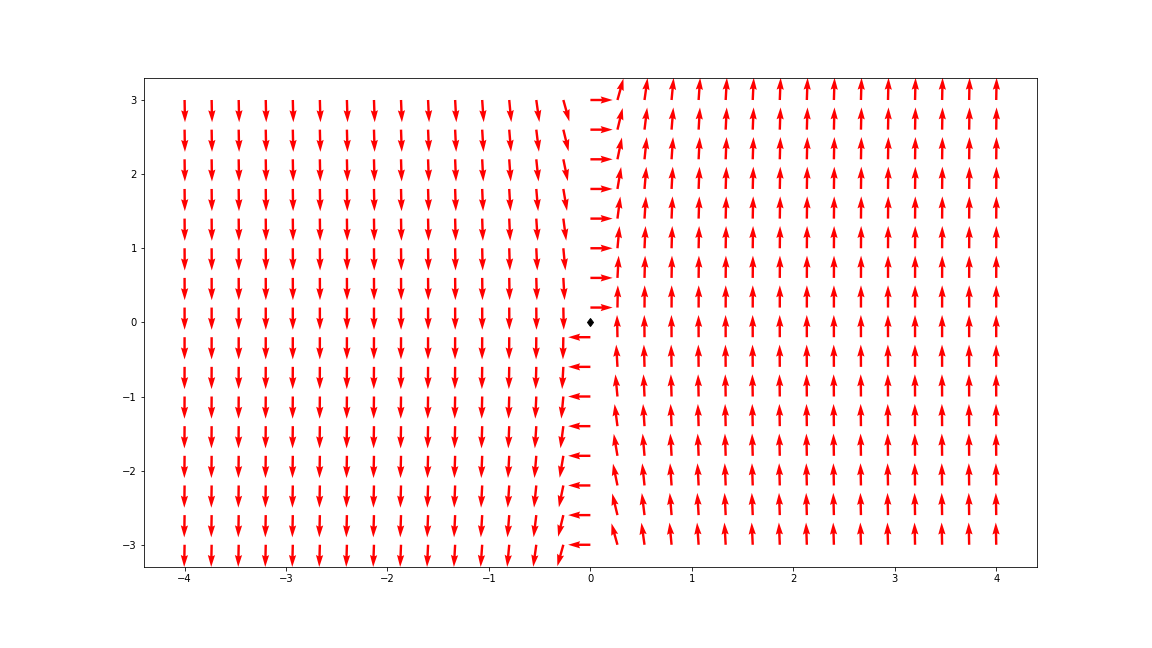
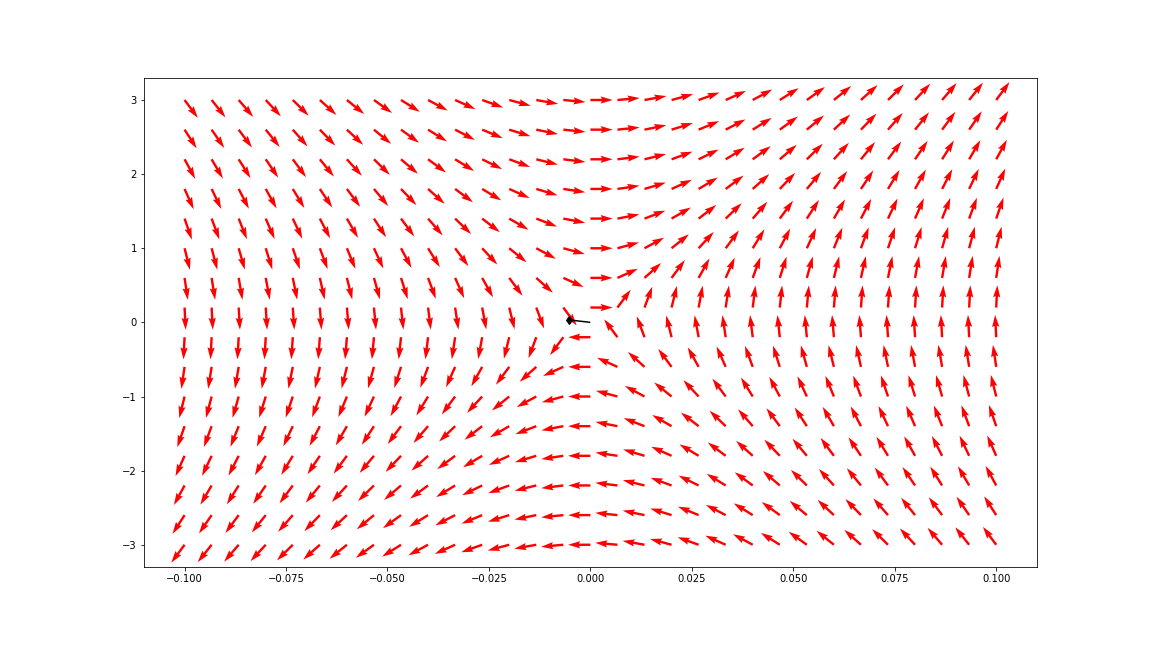
changed notation

Changed region(s): [[0.1562, 0.1235, 0.875, 0.8951], [0.8438, 0.8642, 0.875, 0.8951], [0.5, 0.8642, 0.5312, 0.8951]]

diff --git a/vector_fields.py b/vector_fields.py
@@ -1,15 +1,9 @@
 # -*- coding: utf-8 -*-
-"""
-Created on Thu Oct 17 16:19:35 2019
-
-@author: Lars
-"""
-
 import matplotlib.pyplot as plt
 import numpy as np
 
 # Interval - Axes
-x = np.linspace(-4, 4, 31)
+x = np.linspace(-3, 3, 28)
 y = np.linspace(-3, 3, 16)
 
 X, Y = np.meshgrid(x, y)
@@ -18,12 +12,18 @@ g = 9.82
 M = 1.1
 m = 0.175
 l_p = 0.282
+c = 1
 
-dy = (g*M + g*m)/(M*l_p)*X
-dx = Y
+#dy = (g*M + g*m)/(M*l_p)*X
+#dx = Y
+dy = 2*c*X + Y
+dx = X - 2*c*Y
+dy *= -1
+dx *= -1
 L = (dx**2 + dy**2)**0.5
 dx = dx/L
 dy = dy/L
+
 
 # one step RK4 adapted to system
 def rk4(f, t, x, h):
@@ -34,17 +34,22 @@ def rk4(f, t, x, h):
     xp = x + h*(k1 + 2.0*(k2 + k3) + k4)/6.0
     return xp, t + h
 
+
 t_start = 0.0
-t_stop   = 1.0
+t_stop = 0.5
 N = 500
 t_step = (t_stop - t_start)/float(N)
 
-def fun(t, x):
-    return np.array([x[1],
-                      (g*(M+m))/(M*l_p)*x[0]])
 
-x10 = 0#-0.52605243180
-x20 = 0#1.6087558040
+def fun(t, x):
+    return np.array([x[1], (g*M + g*m)/(M*l_p)*x[0]])
+
+
+A = np.array([[0, 1], [(g*M + g*m)/(M*l_p), 0]])
+eigenvector = np.linalg.eig(A)
+
+x10 = eigenvector[1][0][1]/30
+x20 = eigenvector[1][1][1]/30
 
 X1 = np.zeros(N + 1)
 X2 = np.zeros(N + 1)
@@ -62,7 +67,6 @@ for k in range(N):
 
 plt.figure(figsize=(16, 9))
 plt.quiver(X, Y, dx, dy, color='red', headlength=5)
-#plt.quiver(Z3, Z4, dz3, dz4, color='red', headlength=5)
-plt.plot(X1, X2, 'k-', [x10], [x20], 'kd')
-plt.savefig("direction_field.png")
+#plt.plot(X1, X2, 'k-', [x10], [x20], 'kd')
+#plt.savefig("direction_field.png")
 plt.show()
